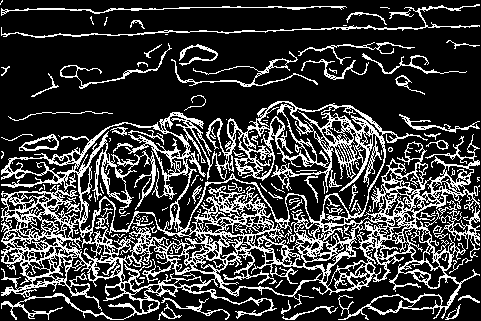
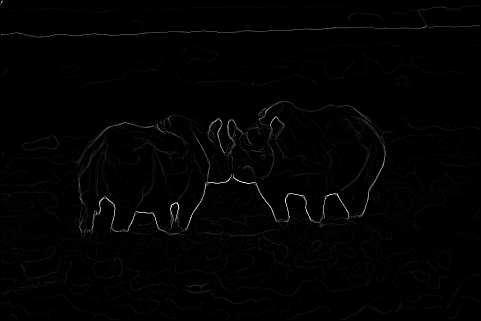
evaluation

diff --git a/Part2/Code/myPbLite.m b/Part2/Code/myPbLite.m
@@ -107,7 +107,7 @@ close
 
 %% Combine responses to get pb-lite output
 % A simple combination function would be: PbLite = (tg+gb).*(SobelPb+CannyPb)
-PbLite = (tg + bg + cg).*(SobelPb + CannyPb);
+PbLite = (tg + bg + cg).*(0.5 * SobelPb + 0.5 * CannyPb);
 PbLite = myNormalize(PbLite);
 % Display PbLite and save image as PbLite_ImageName.png
 % use command saveas
